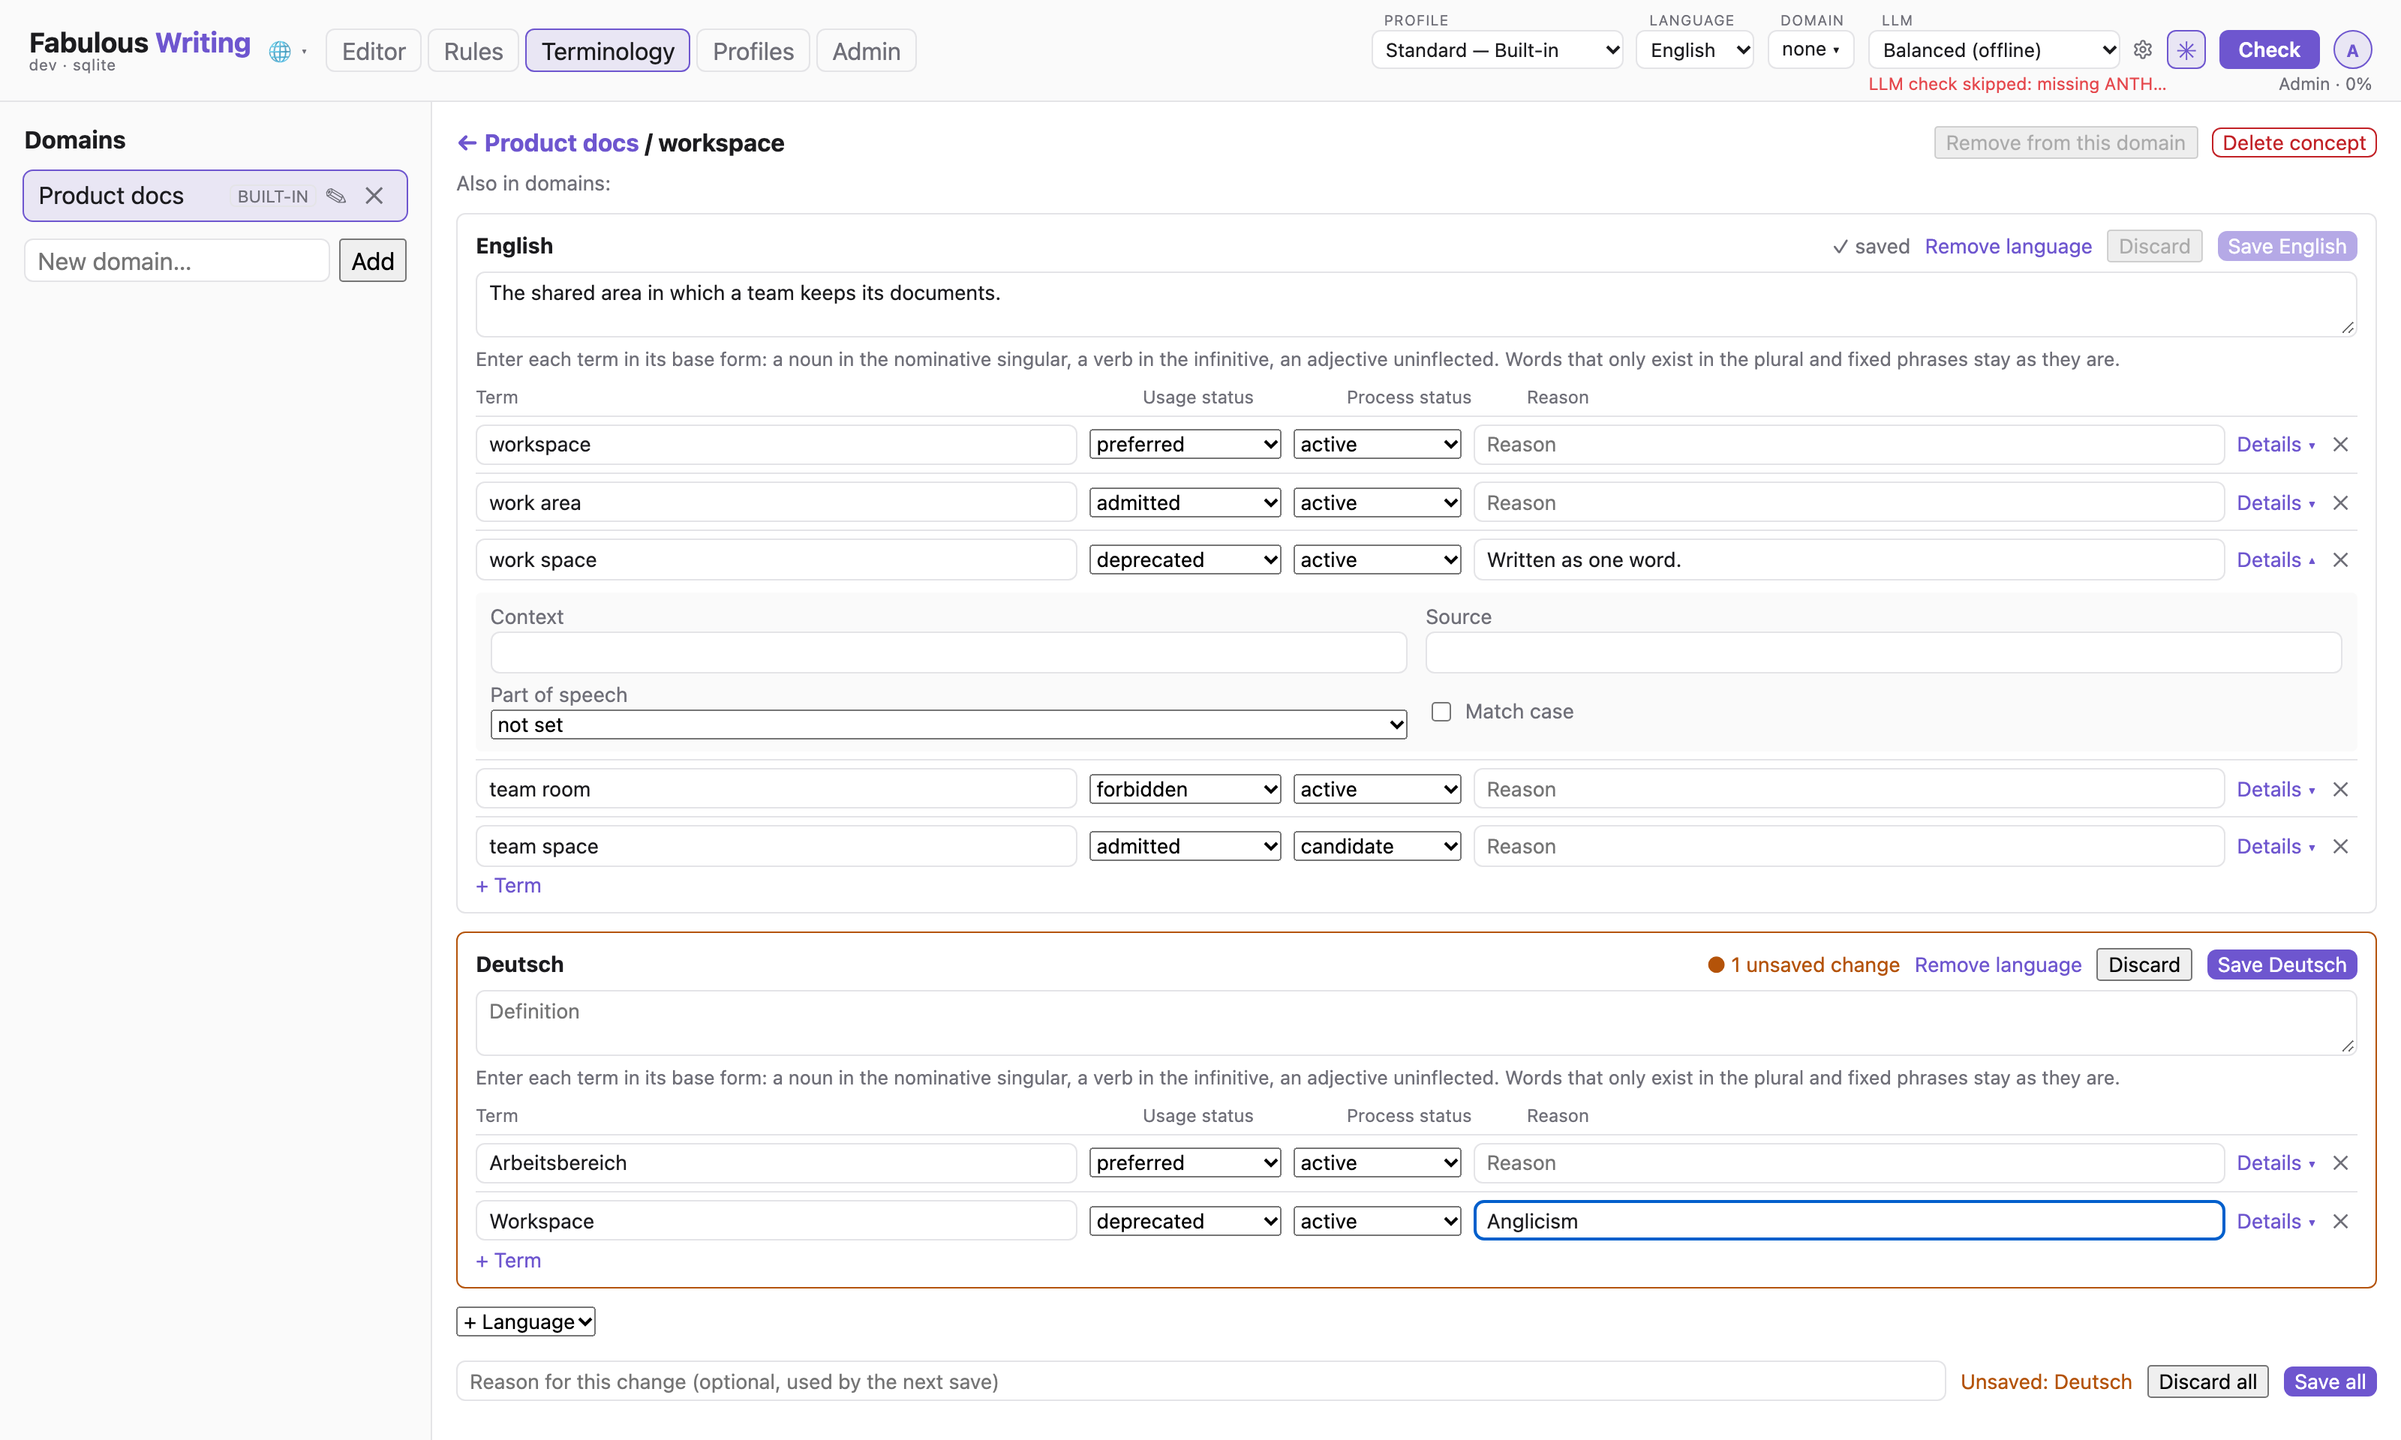
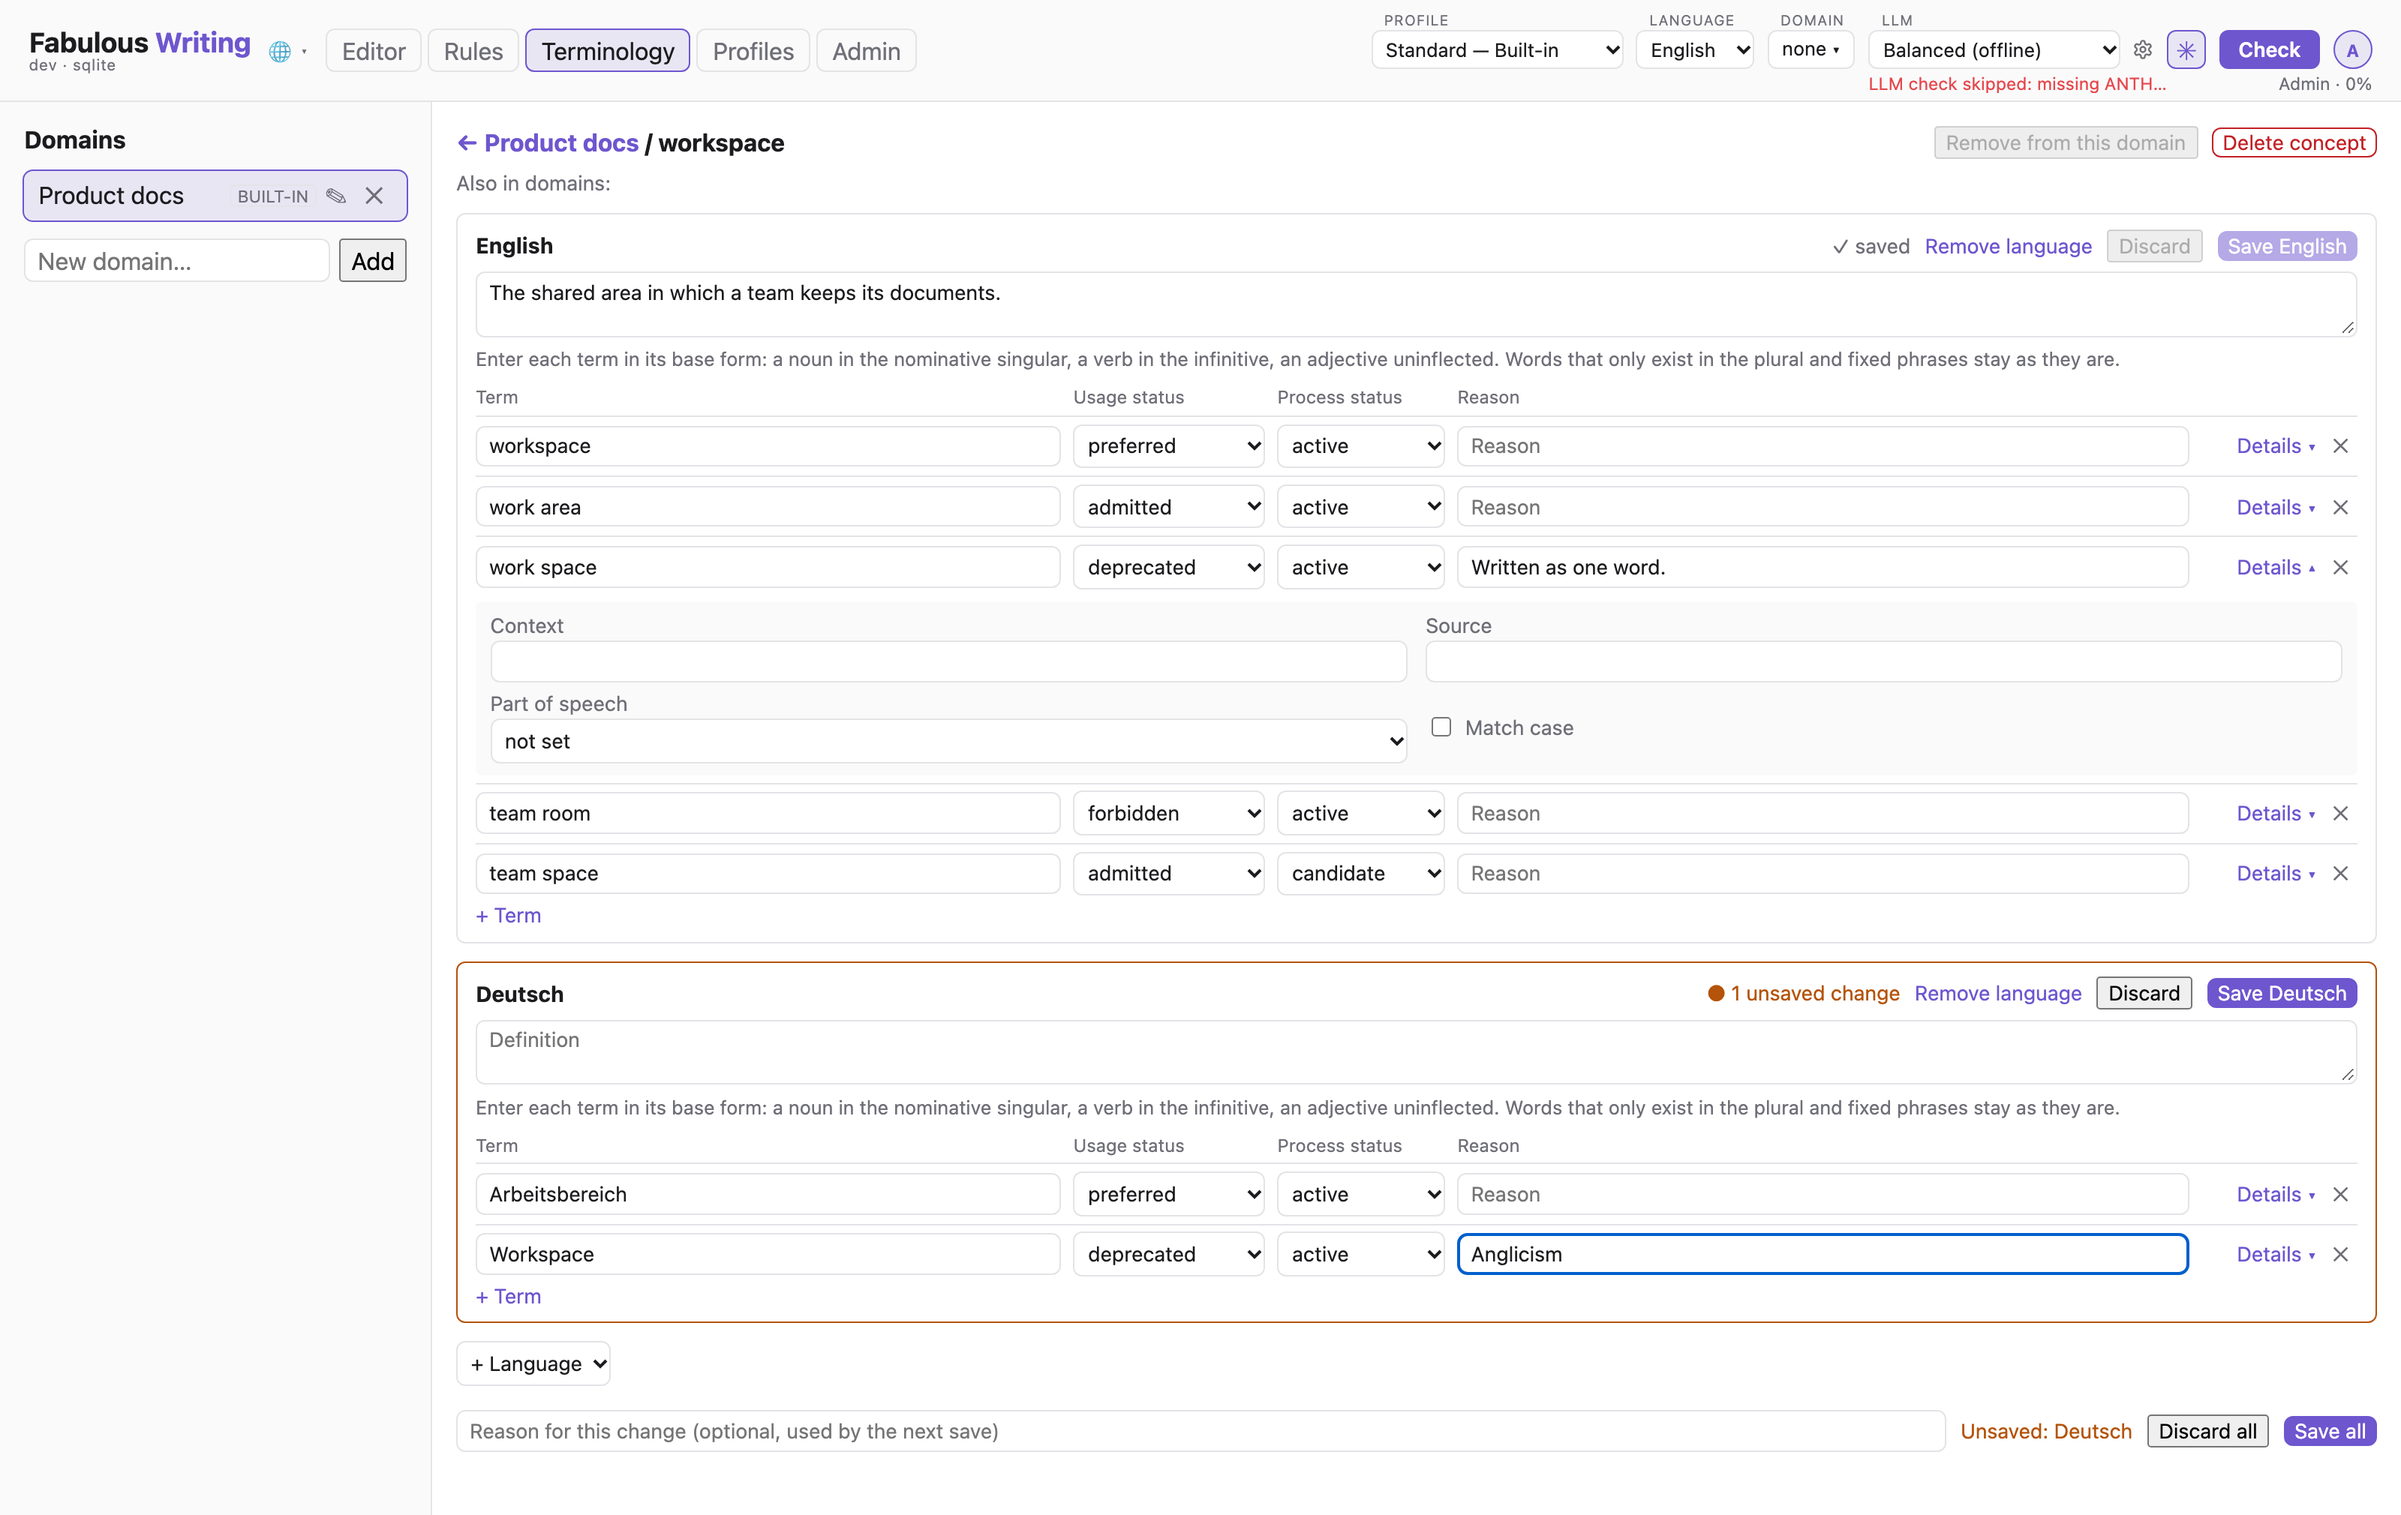
fix(terminology): aligned term columns and app-styled dropdowns
The heading row and the term rows are separate grids; a fixed last
column keeps their columns in line. Dropdowns in the terminology view
get the border, radius and colours of the header's dropdowns.
Both screenshots retaken.

diff --git a/frontend/src/App.css b/frontend/src/App.css
@@ -974,6 +974,16 @@ span.score-badge {
   overflow: auto;
 }
 
+/* Dropdowns of the terminology view look like the header's and are as tall
+   as the text fields beside them. */
+.terminology select {
+  padding: 0.3rem 0.3rem;
+  border-radius: 6px;
+  border: 1px solid var(--border);
+  background: var(--bg);
+  color: var(--text);
+}
+
 .concept-controls {
   display: flex;
   align-items: center;
@@ -1240,7 +1250,9 @@ span.score-badge {
 
 .term-row {
   display: grid;
-  grid-template-columns: minmax(8rem, 1.2fr) 8rem 7rem minmax(6rem, 1.5fr) auto;
+  /* Every row is its own grid: a fixed last column keeps the columns of the
+     heading row and the term rows in line. */
+  grid-template-columns: minmax(8rem, 1.2fr) 8rem 7rem minmax(6rem, 1.5fr) 6.5rem;
   gap: 0.5rem;
   align-items: center;
   padding: 0.3rem 0;
@@ -1261,6 +1273,7 @@ span.score-badge {
 .term-actions {
   display: flex;
   align-items: center;
+  justify-content: flex-end;
   gap: 0.3rem;
 }
 
